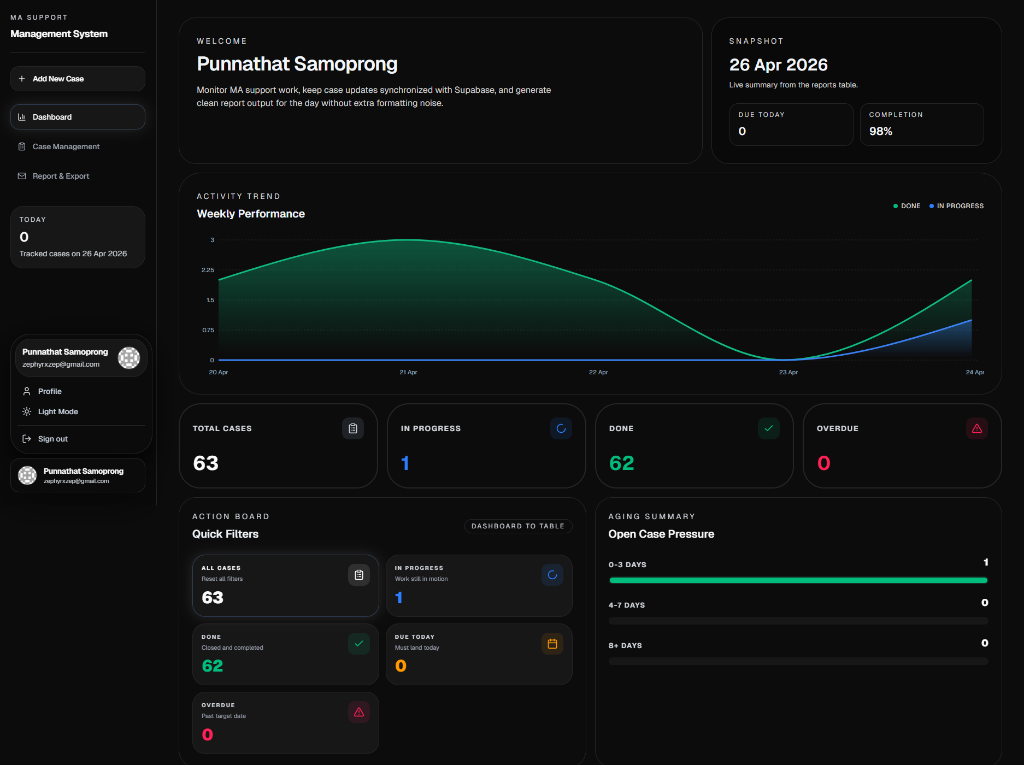
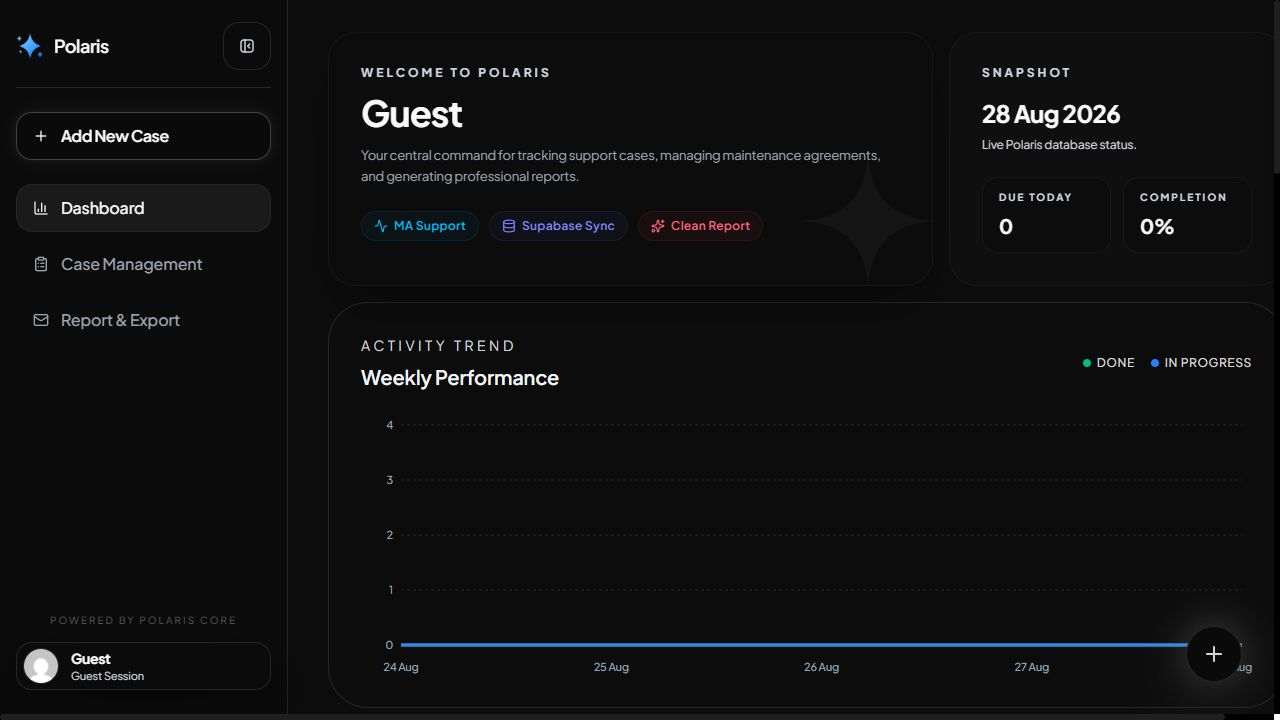
Focus featured work on production web systems

diff --git a/app/page.tsx b/app/page.tsx
@@ -5,13 +5,10 @@ import { useEffect, useMemo, useRef, useState } from 'react';
 
 const sections = [['origin','ORIGIN'],['identity','IDENTITY'],['capabilities','CAPABILITIES'],['work','SELECTED WORK'],['archive','ARCHIVE'],['contact','CONTACT']];
 const projects = [
- {n:'01',title:'Potter Mobile Pawn',kind:'DESIGN + CODE',outcome:'A production pawn-management PWA covering contracts, signatures, interest, redemption, cash ledger, and multi-branch audit trails.',role:'Full-stack product development',year:'2026',tools:'Next.js 16 · Supabase · Puppeteer',image:'/work/potter-pawn-live.png',accent:'#8cffc1',href:'https://potter-mobile-pawn.vercel.app/backoffice/reports'},
- {n:'02',title:'Potter Mobile+',kind:'DESIGN + CODE',outcome:'A used-phone commerce platform with booking, stock, payments, live support, AI-assisted pricing, and a complete admin backoffice.',role:'Product design · Full-stack',year:'2026',tools:'Next.js 16 · Supabase · Claude API',image:'/work/potter-mobile-plus.png',accent:'#75aaff',href:'https://potter-mobile-plus.vercel.app'},
- {n:'03',title:'Polaris',kind:'CODE',outcome:'A real-time case reporting dashboard and browser extension that connects support workflows with a legacy enterprise system.',role:'System design · Development',year:'2026',tools:'Next.js · TypeScript · Browser extension',image:'/work/polaris-live.png',accent:'#a8ff60',href:'https://ma-report-app.vercel.app'},
- {n:'04',title:'Mind DoJo',kind:'DESIGN',outcome:'A visual identity and experience system spanning corporate guidelines, social communication, and large-scale exhibition touchpoints.',role:'Graphic designer',year:'2025',tools:'Figma · Adobe CC · Brand system',image:'/work/minddojo-live.png',accent:'#ff628f',href:'https://zxzep.github.io/my-portfolio/project-minddojo.html'},
- {n:'05',title:'AI Solutions Marketplace',kind:'UX/UI',outcome:'A dedicated marketplace experience for discovering and comparing AI solutions, designed around clear product discovery and an approachable buying journey.',role:'UX/UI design',year:'2025',tools:'Figma · Prototype · E-commerce UX',image:'/work/codelabs.png',accent:'#ffbd66',href:'https://www.figma.com/proto/866xE0q9aql8rdw6Snnrcw/ai.codelabsdev.co--Copy-?page-id=0%3A1&node-id=512-1331&viewport=-2244%2C287%2C0.13&t=sCAlYmFkWd87P9DS-1&scaling=min-zoom&content-scaling=fixed&starting-point-node-id=512%3A1331'},
-];
-const archive = [
+ {n:'01',title:'Potter Mobile+',kind:'FULL-STACK COMMERCE',outcome:'A production commerce platform spanning storefront, trade-in, stock, booking, PromptPay payments, live support, AI-assisted pricing, and a complete admin backoffice.',role:'Product design · Full-stack development',year:'2026',tools:'Next.js 16 · Supabase · Claude API',image:'/work/potter-mobile-plus.png',accent:'#75aaff',href:'https://potter-mobile-plus.vercel.app'},
+ {n:'02',title:'Potter Mobile Pawn',kind:'PRODUCTION PWA',outcome:'A production pawn-management system covering contracts, signatures, interest, redemption, cash ledger, role access, and multi-branch audit trails.',role:'Full-stack product development',year:'2026',tools:'Next.js 16 · Supabase · Puppeteer',image:'/work/potter-pawn-live.png',accent:'#8cffc1',href:'https://potter-mobile-pawn.vercel.app/backoffice'},
+ {n:'03',title:'Polaris',kind:'SYSTEM + EXTENSION',outcome:'A real-time case reporting dashboard and browser extension connecting support workflows with a legacy enterprise system.',role:'System design · Development',year:'2026',tools:'Next.js · TypeScript · Browser extension',image:'/work/polaris-live.png',accent:'#a8ff60',href:'https://ma-report-app.vercel.app'},
+];const archive = [
  ['2026','Potter Mobile Pawn','CODE','Full-stack developer','Next.js / Supabase / PWA'],['2026','Potter Mobile+','CODE','Product developer','Next.js / Claude API'],['2026','Cinema Ticket Booking','CODE','Full-stack developer','Go / Vue / Redis'],['2026','Polaris Case System','CODE','System designer & developer','Next.js / Extension'],['2025','AI Solutions Marketplace','UX/UI','UX/UI designer','Figma / Prototype'],['2025','Mind DoJo Identity','DESIGN','Graphic designer','CI / Campaign / Exhibition'],['2024','Thai Traditional Typography','DESIGN','Graphic designer','Illustrator / Photoshop'],['2024','KUMI Shop','UX/UI','UX/UI designer','Figma / Commerce'],['2024','Synthetic Worlds','3D','3D artist','Blender / Maya'],['2023','Horklong Visual Identity','DESIGN','Brand designer','Identity / Campaign'],['2023','Freelance GP','DESIGN','Graphic designer','Visual communication'],
 ];
 
@@ -24,7 +21,7 @@ export default function Home(){const[active,setActive]=useState('origin');const[
  <section id="origin" className="hero section"><div className="coordinates">13.7563° N<br/>100.5018° E</div><div className="hero-copy"><p className="eyebrow">BANGKOK · THAILAND / AVAILABLE WORLDWIDE</p><h1><span>I DESIGN EXPERIENCES</span><span>AND BUILD THEM <em>REAL.</em></span></h1><div className="hero-meta"><p>Punnathat Samoprong is a creative technologist shaping visual identities, digital products, interfaces, 3D experiences, and production-ready software.</p><p className="role">DESIGNER <b>×</b> DEVELOPER</p></div><div className="actions"><a className="button primary" href="#work">EXPLORE THE UNIVERSE <span>↘</span></a><a className="button" href="/Punnathat_Samoprong_Resume.pdf" download>DOWNLOAD RESUME <span>↓</span></a></div></div><div className="orbital" aria-hidden="true"><div className="orbit-label">GRAPHIC · UX/UI · CODE · 3D</div><div className="core"><i/><i/><i/></div></div><div className="scroll-cue"><span>SCROLL TO TRAVEL</span><i/></div></section>
  <section id="identity" className="identity section"><div className="section-index"><span>01</span><p>IDENTITY</p></div><div className="portrait-wrap"><div className="portrait-frame"><Image src="/profile.png" alt="Portrait of Punnathat Samoprong" fill sizes="(max-width:800px) 82vw,38vw"/></div><span>PUNNATHAT / BKK</span></div><div className="identity-copy"><p className="eyebrow">THE PERSON BEHIND THE PIXELS</p><h2>ONE MIND.<br/>MULTIPLE <em>ORBITALS.</em></h2><p className="lead">I move between aesthetics, business systems, and technology—turning complex ideas into experiences people can see, feel, and use.</p><div className="identity-notes"><p><span>BACKGROUND</span>Information Technology graduate from KMITL, specialized in Multimedia & Game Development.</p><p><span>NOW</span>MA Programmer working with Dynamics 365 Business Central, AL, SQL, and production reporting systems.</p><p><span>EXPERIENCE</span>Former Middle UX/UI & Graphic Designer at Codelabs Tech and Graphic Designer at Mind DoJo.</p><p><span>APPROACH</span>From concept and visual direction to UX logic, data, and the final working product.</p></div><div className="keywords"><span>DESIGNER</span><span>DEVELOPER</span><span>PROBLEM SOLVER</span><span>CREATIVE TECHNOLOGIST</span></div></div></section>
  <section id="capabilities" className="capabilities section"><div className="section-index"><span>02</span><p>CAPABILITIES</p></div><div className="section-heading"><p className="eyebrow">THREE DISCIPLINES / ONE SYSTEM</p><h2>CHOOSE A <em>PORTAL.</em></h2></div><div className="portals">{[['VISUAL','#ff5d82','Brand identity|Graphic design|Campaign artwork|Typography|Motion & 3D','PS · AI · AE · BLENDER'],['EXPERIENCE','#5596ff','UX research|Information architecture|Wireframes|Prototypes|Design systems','FIGMA · MIRO · PROTOTYPING'],['CODE','#a8ff60','Next.js & React|Supabase & SQL|Go & distributed systems|ERP / AL Language|Performance & accessibility','TYPESCRIPT · GO · AL · SQL']].map((p,i)=><article className="portal" style={{'--accent':p[1]} as React.CSSProperties} key={p[0]}><span className="portal-num">0{i+1}</span><div className="portal-ring"><i/><i/><span>↗</span></div><h3>{p[0]}</h3><ul>{p[2].split('|').map(x=><li key={x}>{x}</li>)}</ul><p>{p[3]}</p></article>)}</div></section>
- <section id="work" className="work section"><div className="section-index"><span>03</span><p>SELECTED WORK</p></div><div className="section-heading"><p className="eyebrow">FEATURED MISSIONS / 2024—2026</p><h2>WORK WITH <em>GRAVITY.</em></h2></div><div className="projects">{projects.map(p=><article className="project" style={{'--accent':p.accent} as React.CSSProperties} key={p.title}><div className="project-visual"><span className="giant-title">{p.title}</span><a className={`project-shot shot-${p.n}`} href={p.href} target="_blank" rel="noreferrer"><span className="shot-chrome" aria-hidden="true"><i/><i/><i/><b>{p.kind}</b></span><span className="shot-screen"><Image src={p.image} alt={p.title+' project preview'} fill sizes="(max-width:900px) 92vw,58vw"/></span><span className="shot-meta" aria-hidden="true"><b>LIVE CAPTURE</b><span>{p.year} / {p.n}</span></span></a><span className="project-count">{p.n} / 05</span></div><div className="project-copy"><p className="eyebrow">{p.kind}</p><h3>{p.title}</h3><p>{p.outcome}</p><dl><div><dt>ROLE</dt><dd>{p.role}</dd></div><div><dt>YEAR</dt><dd>{p.year}</dd></div><div><dt>TOOLS</dt><dd>{p.tools}</dd></div></dl><a className="text-link" href={p.href} target="_blank" rel="noreferrer">VIEW PROJECT <span>↗</span></a></div></article>)}</div></section>
+ <section id="work" className="work section"><div className="section-index"><span>03</span><p>SELECTED WORK</p></div><div className="section-heading"><p className="eyebrow">FEATURED MISSIONS / 2024—2026</p><h2>WORK WITH <em>GRAVITY.</em></h2></div><div className="projects">{projects.map(p=><article className="project" style={{'--accent':p.accent} as React.CSSProperties} key={p.title}><div className="project-visual"><a className={`project-shot shot-${p.n}`} href={p.href} target="_blank" rel="noreferrer"><Image src={p.image} alt={p.title+' project preview'} fill sizes="(max-width:900px) 92vw,58vw"/><span className="shot-corner" aria-hidden="true">LIVE / {p.year}</span></a><span className="project-count">{p.n} / {String(projects.length).padStart(2,'0')}</span></div><div className="project-copy"><p className="eyebrow">{p.kind}</p><h3>{p.title}</h3><p>{p.outcome}</p><dl><div><dt>ROLE</dt><dd>{p.role}</dd></div><div><dt>YEAR</dt><dd>{p.year}</dd></div><div><dt>TOOLS</dt><dd>{p.tools}</dd></div></dl><a className="text-link" href={p.href} target="_blank" rel="noreferrer">VIEW PROJECT <span>↗</span></a></div></article>)}</div></section>
  <section id="archive" className="archive section"><div className="section-index"><span>04</span><p>ARCHIVE</p></div><div className="section-heading archive-head"><div><p className="eyebrow">THE EXTENDED CONSTELLATION</p><h2>PROJECT <em>ARCHIVE.</em></h2></div><div className="filters" role="group" aria-label="Filter projects">{['ALL','DESIGN','UX/UI','CODE','3D'].map(f=><button key={f} className={filter===f?'active':''} onClick={()=>setFilter(f)}>{f}</button>)}</div></div><div className="archive-list">{filtered.map(p=><a href="#work" className="archive-row" key={p[1]}><span>{p[0]}</span><strong>{p[1]}</strong><span>{p[2]}</span><span>{p[3]}</span><span>{p[4]}</span><b>↗</b></a>)}</div></section>
  <section id="contact" className="contact section"><div className="event-horizon" aria-hidden="true"><i/><i/><i/></div><p className="eyebrow">05 / CONTACT · TRANSMISSION OPEN</p><h2>LET’S CREATE<br/><em>SOMETHING UNREAL.</em></h2><p>Have a product to shape, a world to build, or an idea that refuses to stay ordinary?</p><a className="contact-button" href="mailto:zephyrxzep@gmail.com"><span>START A PROJECT</span><b>↗</b></a><div className="contact-details"><a href="mailto:zephyrxzep@gmail.com">zephyrxzep@gmail.com</a><a href="tel:+66987070173">+66 098-707-0173</a></div><footer><span>© 2026 PUNNATHAT SAMOPRONG</span><div><a href="mailto:zephyrxzep@gmail.com">EMAIL</a><a href="https://www.linkedin.com/in/punnathat-samoprong/" target="_blank">LINKEDIN</a><a href="https://github.com/ZXzep" target="_blank">GITHUB</a><a href="/Punnathat_Samoprong_Resume.pdf">RESUME</a></div><span>BANGKOK / WORLDWIDE</span></footer></section>
  </main>}

diff --git a/app/globals.css b/app/globals.css
@@ -17,3 +17,16 @@
 .shot-04 .shot-screen img{padding:clamp(18px,3vw,48px);filter:saturate(.95) drop-shadow(0 18px 34px #0008)}
 .shot-05 .shot-screen img{padding:clamp(16px,2vw,34px)}
 @media(max-width:900px){.project-visual>a.project-shot{width:92%;height:auto;aspect-ratio:16/9;transform:none;padding:9px}.shot-chrome{height:27px}.shot-screen{height:calc(100% - 50px)}.project-visual .shot-screen img{padding:10px}.shot-meta{height:23px}}
+/* Featured dev work: true 16:9 captures */
+.project{grid-template-columns:minmax(0,1.7fr) minmax(300px,.72fr);gap:clamp(42px,5vw,88px);min-height:68vh;align-items:center}
+.project-visual{height:auto;display:block;padding:0 0 28px}
+.project-visual>a.project-shot{display:block;width:100%;max-width:none;height:auto;aspect-ratio:16/9;padding:0;overflow:hidden;transform:none;background:#07080a;border:1px solid color-mix(in srgb,var(--accent) 42%,transparent);box-shadow:0 26px 70px #000a,0 0 42px color-mix(in srgb,var(--accent) 8%,transparent)}
+.project-visual>a.project-shot:before,.project-visual>a.project-shot:after{display:none}
+.project-visual>a.project-shot:hover{transform:translateY(-4px)!important;box-shadow:0 34px 84px #000c,0 0 52px color-mix(in srgb,var(--accent) 13%,transparent)!important}
+.project-visual .project-shot>img{object-fit:cover;padding:0;transform:scale(1);filter:none;transition:transform .65s cubic-bezier(.2,.8,.2,1)}
+.project-visual .project-shot:hover>img{transform:scale(1.012);filter:none}
+.shot-corner{position:absolute;top:13px;right:13px;z-index:2;padding:7px 9px;background:#050507d9;border:1px solid #ffffff18;backdrop-filter:blur(8px);color:color-mix(in srgb,var(--accent) 74%,#fff);font:7px var(--font-mono);letter-spacing:.16em}
+.project-count{bottom:0;left:0}
+.project-copy{align-self:center;max-width:470px}
+.giant-title{display:none}
+@media(max-width:900px){.project{grid-template-columns:1fr;gap:28px;min-height:auto}.project-visual{padding-bottom:24px}.project-visual>a.project-shot{width:100%;aspect-ratio:16/9}.project-copy{max-width:680px}}
